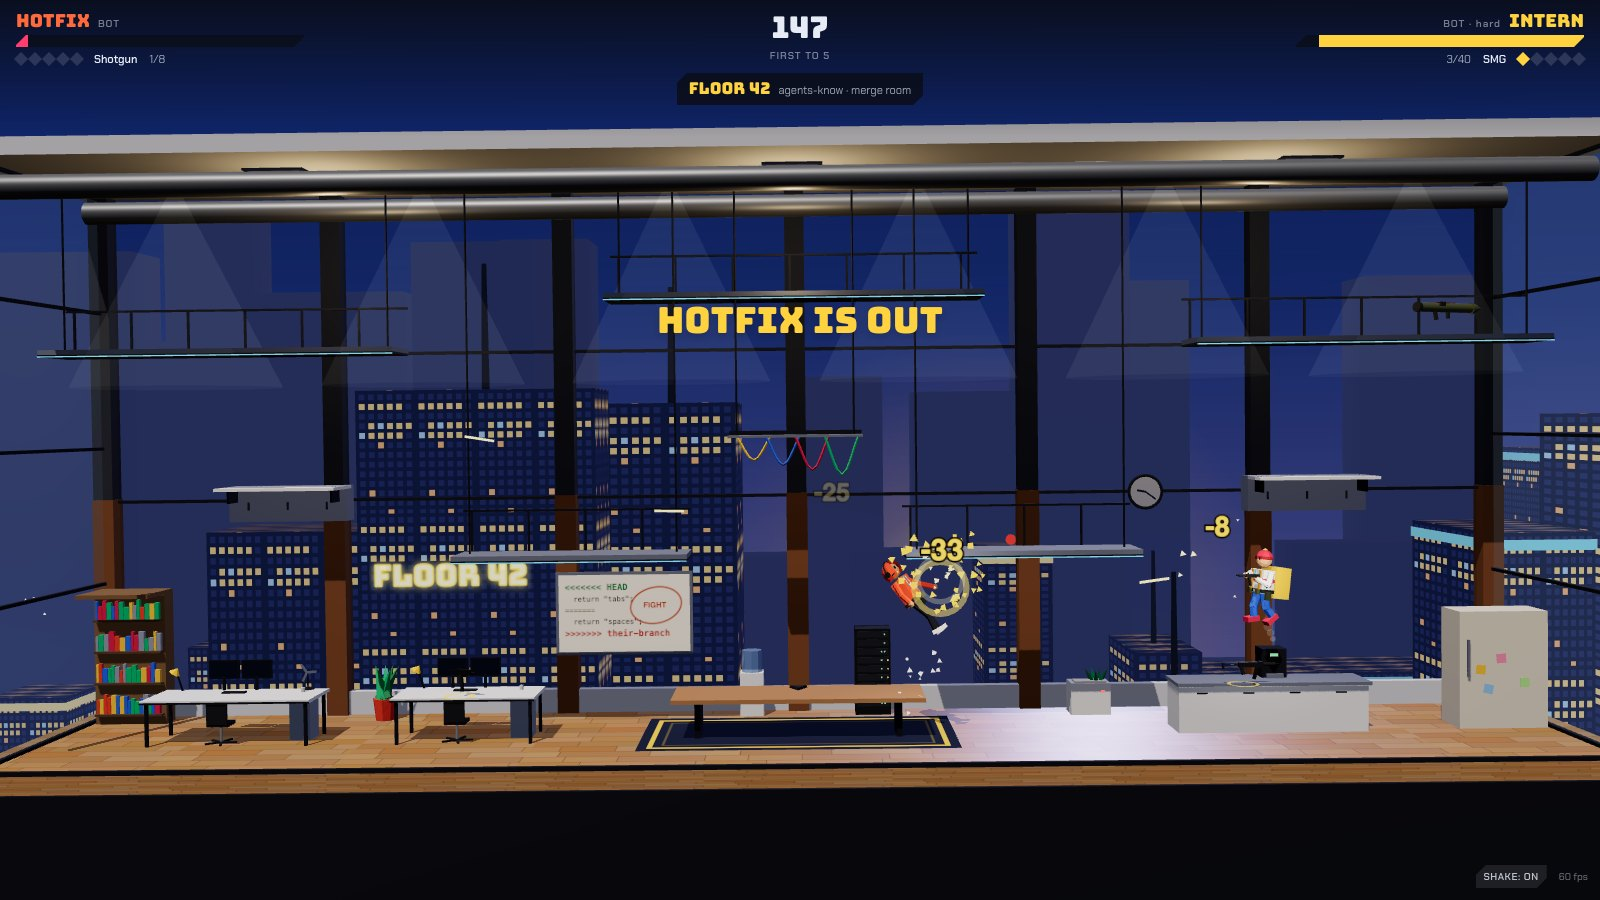
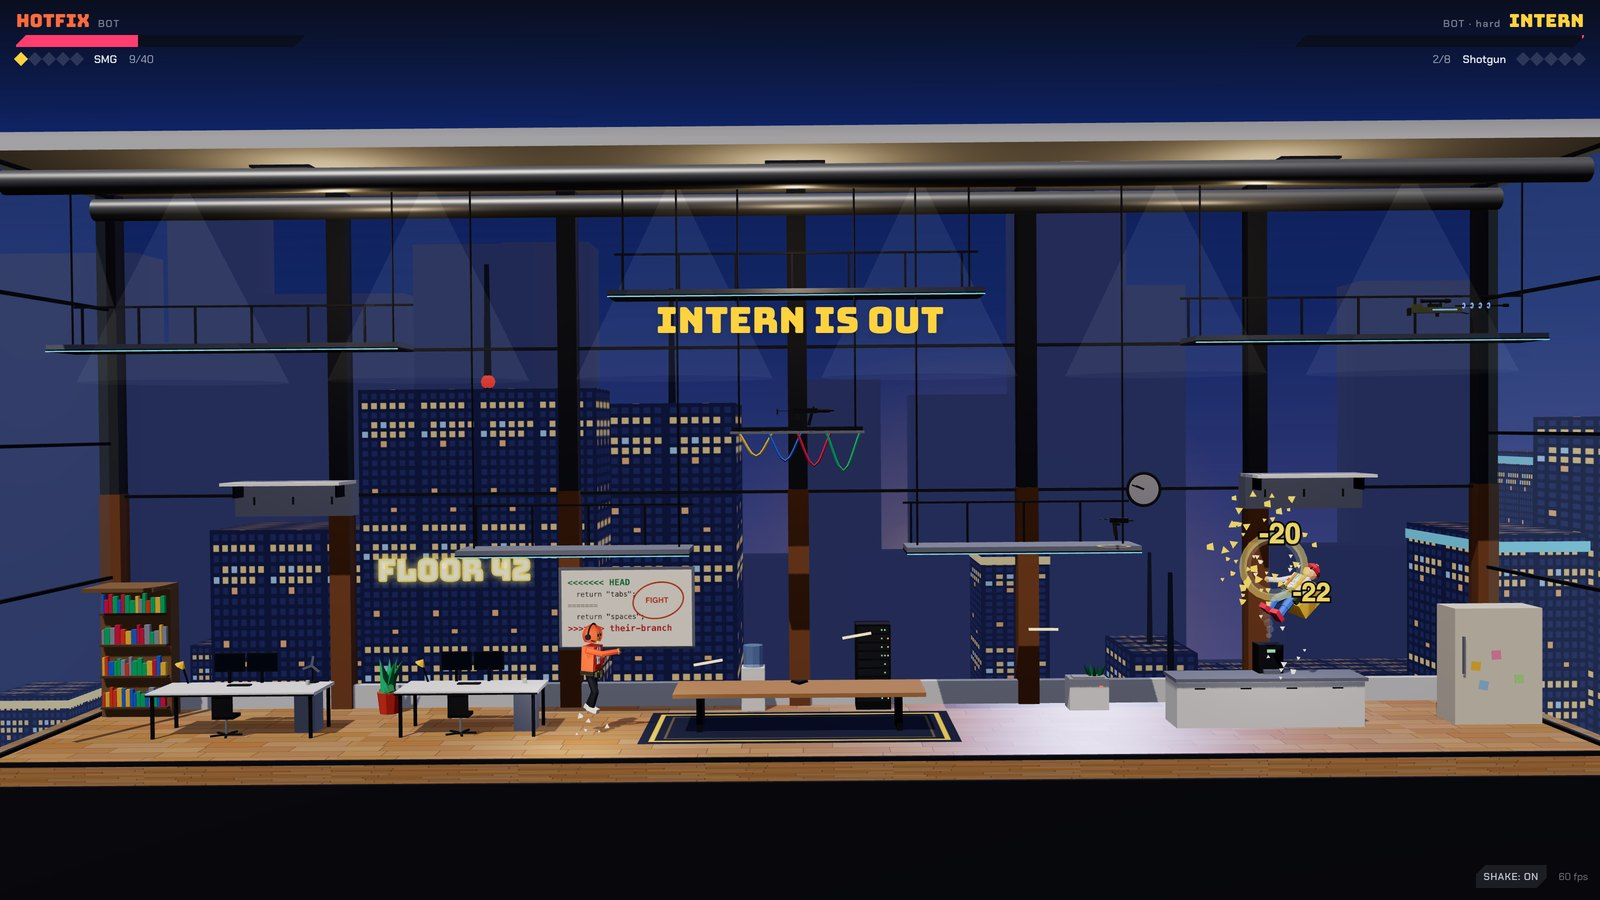
Floor 42 knockout frame re-captured without the room label in the HUD
New frame from the bot-vs-bot demo (Intern is out), cropped for the site at 720 and 1200 px, full 1600x900 for the
press kit; alt text, share image and screenshots updated.

diff --git a/index.html b/index.html
@@ -94,7 +94,7 @@
                 <figcaption>Last Commit Standing</figcaption>
               </figure>
               <figure class="serve-card" data-game="floor-42" data-pos="2">
-                <img src="/assets/img/f42-ko-720.webp" srcset="/assets/img/f42-ko-720.webp 720w, /assets/img/f42-ko-1200.webp 1200w" sizes="(min-width: 960px) 520px, 80vw" width="1200" height="675" alt="Floor 42: a hit lands across the night-time office and the banner reads HOTFIX IS OUT" decoding="async" />
+                <img src="/assets/img/f42-ko-720.webp" srcset="/assets/img/f42-ko-720.webp 720w, /assets/img/f42-ko-1200.webp 1200w" sizes="(min-width: 960px) 520px, 80vw" width="1200" height="675" alt="Floor 42: a hit lands across the night-time office and the banner reads INTERN IS OUT" decoding="async" />
                 <figcaption>Floor 42</figcaption>
               </figure>
             </div>
@@ -195,7 +195,7 @@
             </div>
           </div>
           <figure class="media f42-media tilt" data-tilt="2.5" data-reveal>
-            <img src="/assets/img/f42-ko-720.webp" srcset="/assets/img/f42-ko-720.webp 720w, /assets/img/f42-ko-1200.webp 1200w" sizes="(min-width: 1320px) 1240px, 92vw" width="1200" height="675" alt="Floor 42: a hit lands in mid-air across the night-time office, the banner reads HOTFIX IS OUT and the rival lands on the kitchen counter" loading="lazy" decoding="async" />
+            <img src="/assets/img/f42-ko-720.webp" srcset="/assets/img/f42-ko-720.webp 720w, /assets/img/f42-ko-1200.webp 1200w" sizes="(min-width: 1320px) 1240px, 92vw" width="1200" height="675" alt="Floor 42: Hotfix lands a hit on Intern in mid-air above the kitchen counter and the banner reads INTERN IS OUT" loading="lazy" decoding="async" />
           </figure>
           <div class="f42-bottom">
             <dl class="spec" data-reveal>

diff --git a/press.html b/press.html
@@ -173,7 +173,7 @@
               <figcaption>Last Commit Standing, a fight by the barn. <a href="/assets/press/last-commit-standing-1920x1080.jpg" download>1920&times;1080 JPG</a></figcaption>
             </figure>
             <figure>
-              <img src="/assets/img/f42-ko-720.webp" width="1200" height="675" alt="Floor 42: a hit lands and the banner reads HOTFIX IS OUT" loading="lazy" decoding="async" />
+              <img src="/assets/img/f42-ko-720.webp" width="1200" height="675" alt="Floor 42: a hit lands and the banner reads INTERN IS OUT" loading="lazy" decoding="async" />
               <figcaption>Floor 42, a knockout. <a href="/assets/press/floor-42-ko-1600x900.jpg" download>1600&times;900 JPG</a></figcaption>
             </figure>
             <figure>
